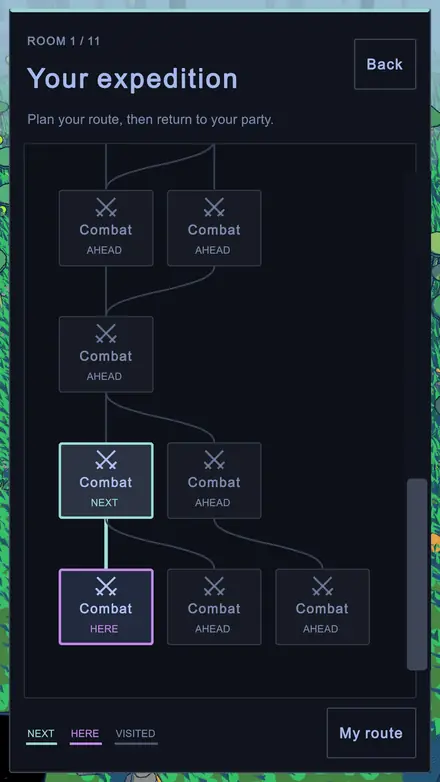
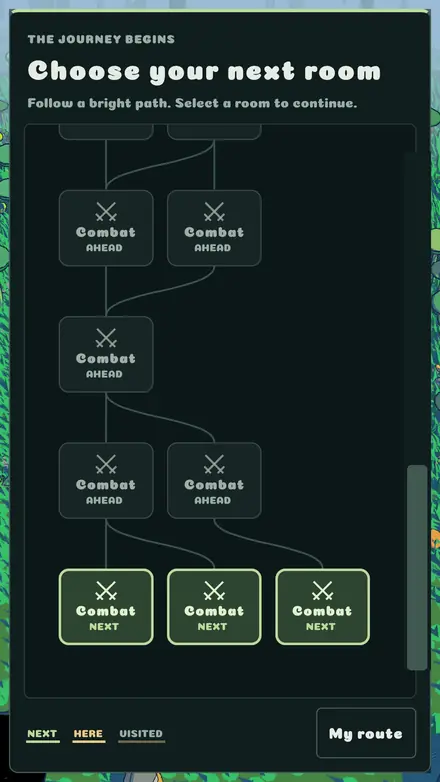
Swap HealerLike to captures taken today
The 2026-09-27 frames predated the meadow start screen and the class select, so
they showed the previous build. A capture run on the Mac produced five frames at
the current tip; these are those.

Card panel is a 5:4 band of the start screen carrying the title and both
creatures on the grass. The strip is class select, Druid combat, the Cleric
casting a heal, and the expedition map, with alt text per language.

387 KB of game art, slightly less than the frames it replaces.

diff --git a/fr/index.html b/fr/index.html
@@ -123,9 +123,9 @@
         </article>
 
         <div class="shots">
-          <img src="/assets/games/healerlike-combat.webp" alt="Combat dans la prairie" width="440" height="782" loading="lazy">
-          <img src="/assets/games/healerlike-cast.webp" alt="Lancer un sort" width="440" height="782" loading="lazy">
-          <img src="/assets/games/healerlike-details.webp" alt="Détails d’une créature" width="440" height="782" loading="lazy">
+          <img src="/assets/games/healerlike-classes.webp" alt="Choix de la classe de soigneur" width="440" height="782" loading="lazy">
+          <img src="/assets/games/healerlike-combat.webp" alt="Combat avec la barre de sorts du Druide" width="440" height="782" loading="lazy">
+          <img src="/assets/games/healerlike-cast.webp" alt="Le Clerc lance un soin" width="440" height="782" loading="lazy">
           <img src="/assets/games/healerlike-map.webp" alt="La carte de l’expédition" width="440" height="782" loading="lazy">
         </div>
 

diff --git a/index.html b/index.html
@@ -153,9 +153,9 @@
         </article>
 
         <div class="shots">
-          <img src="/assets/games/healerlike-combat.webp" alt="Combat on the meadow" width="440" height="782" loading="lazy">
-          <img src="/assets/games/healerlike-cast.webp" alt="Casting a spell" width="440" height="782" loading="lazy">
-          <img src="/assets/games/healerlike-details.webp" alt="Creature details" width="440" height="782" loading="lazy">
+          <img src="/assets/games/healerlike-classes.webp" alt="Choosing a healer class" width="440" height="782" loading="lazy">
+          <img src="/assets/games/healerlike-combat.webp" alt="Combat with the Druid spell bar" width="440" height="782" loading="lazy">
+          <img src="/assets/games/healerlike-cast.webp" alt="The Cleric casting a heal" width="440" height="782" loading="lazy">
           <img src="/assets/games/healerlike-map.webp" alt="The expedition map" width="440" height="782" loading="lazy">
         </div>
 
